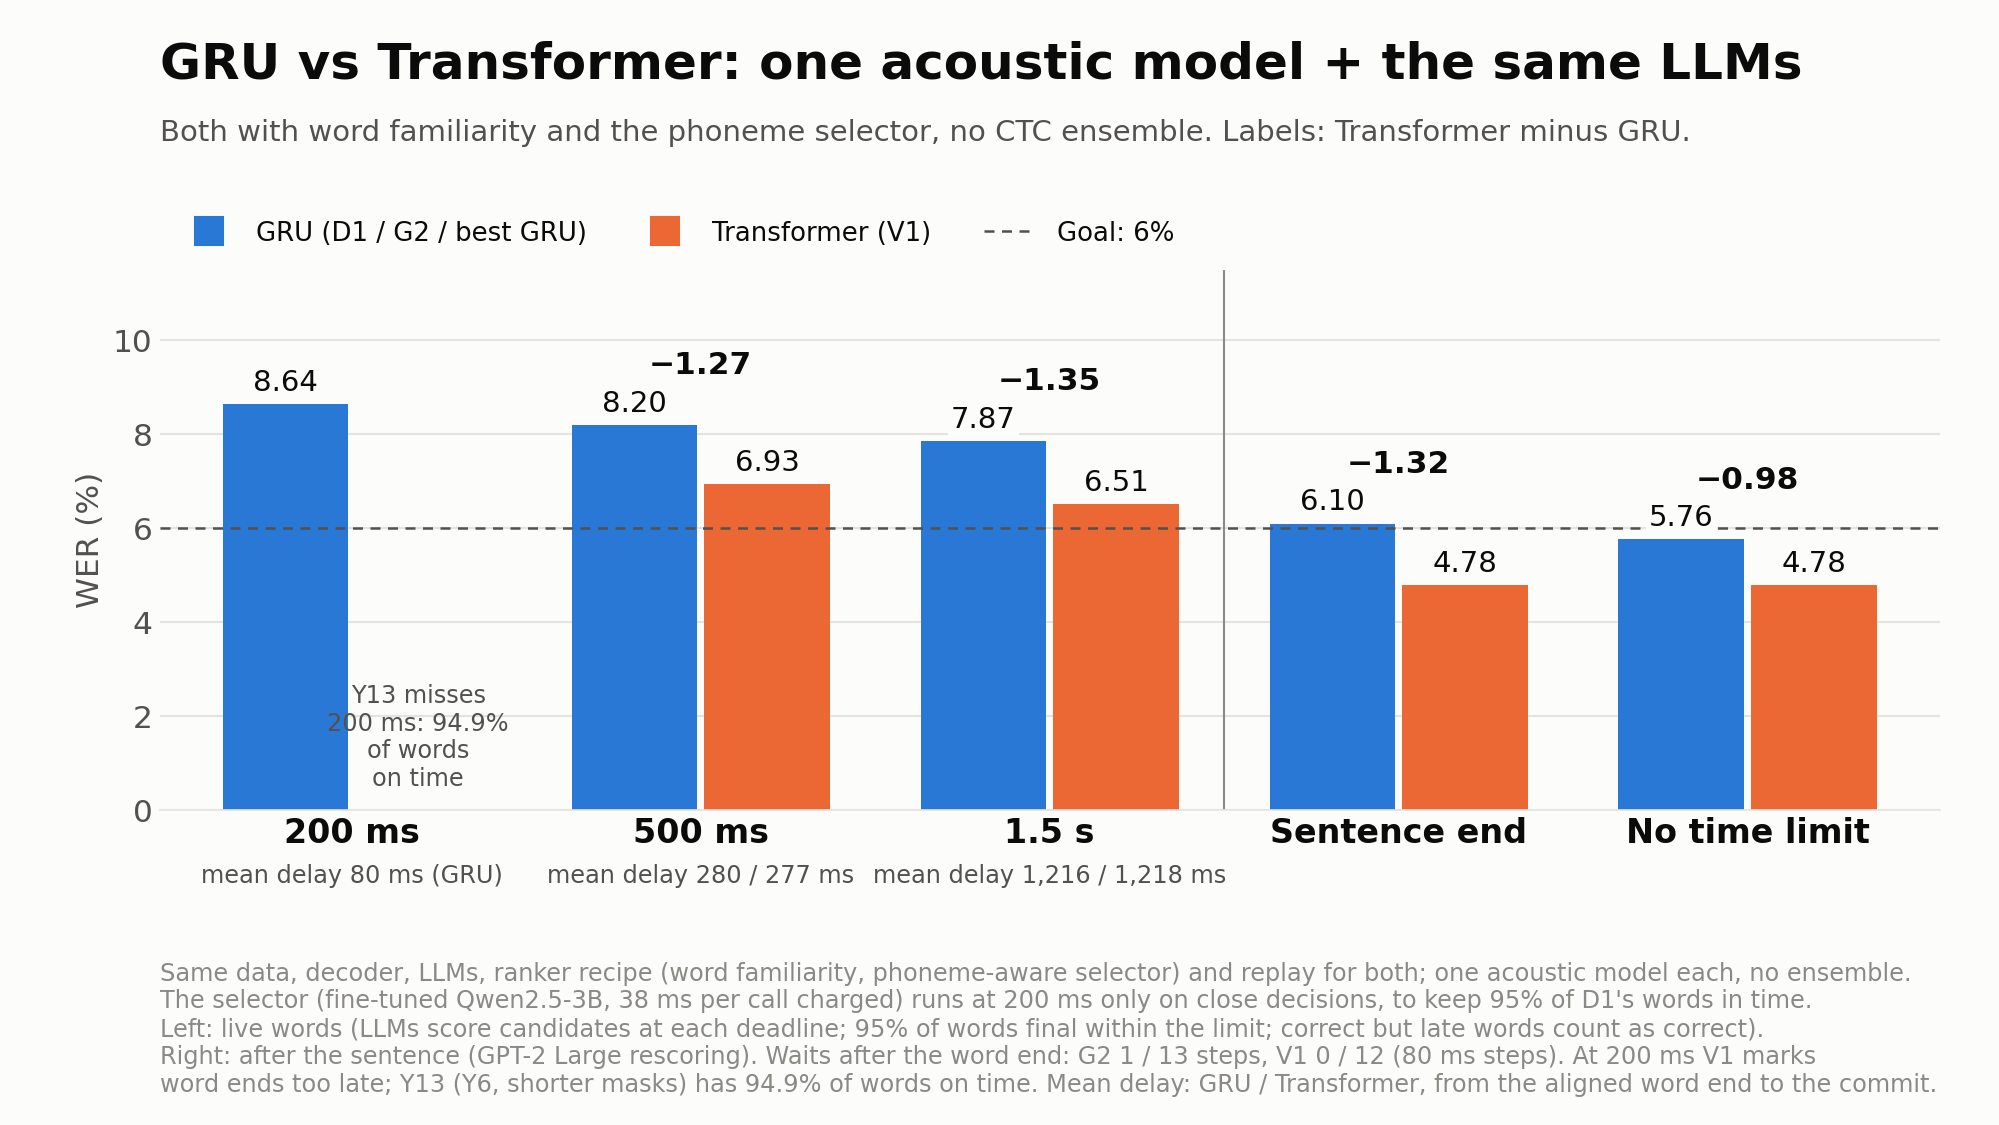
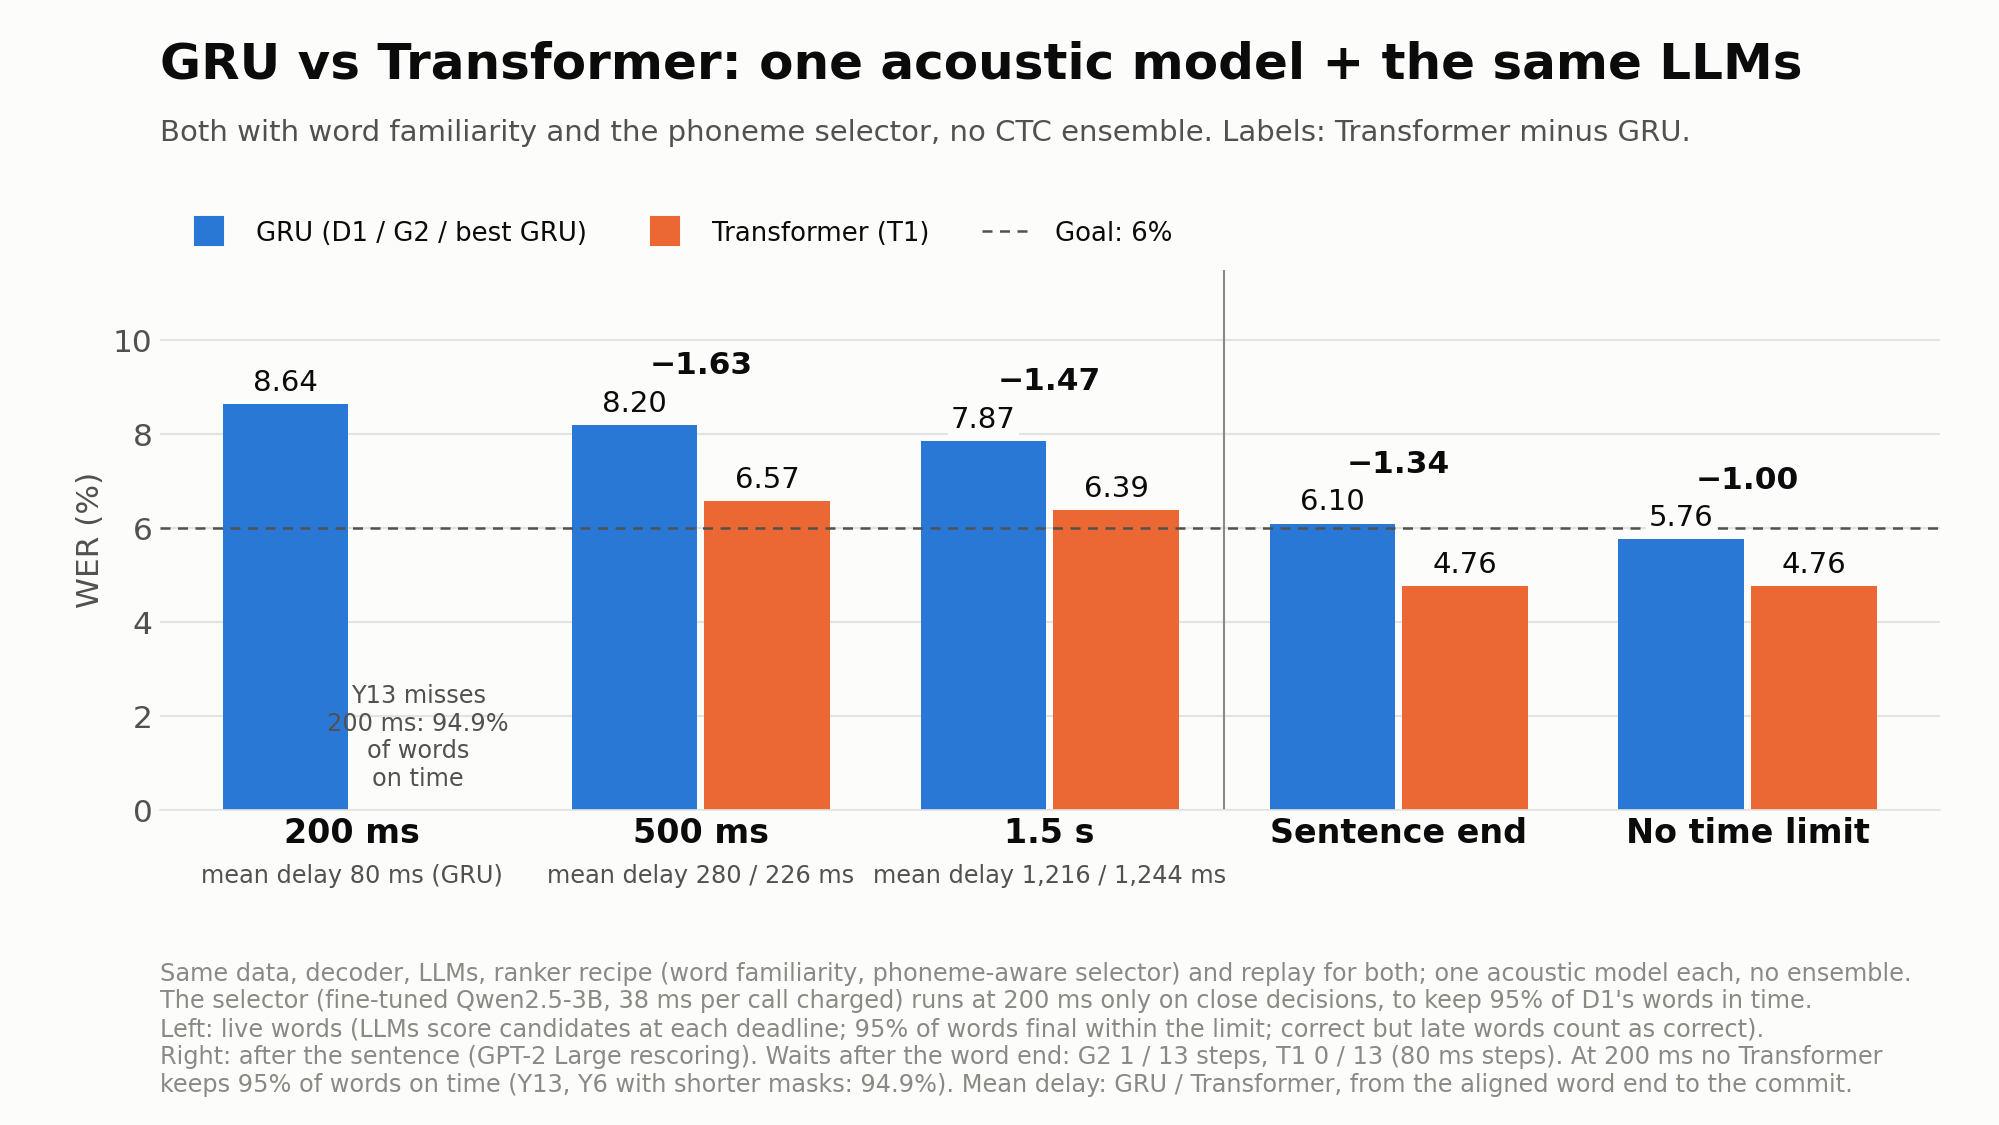
T1 is the 500 ms and 1.5 s decider: README, charts and plan at 5.80 / 5.42% (V1 5.97 / 5.80; four-split means 5.79 / 5.43), sentence end 3.71%; one run, rule set before the run; registry rows

diff --git a/README.md b/README.md
@@ -9,15 +9,15 @@ unchanged.
 shown within 200 ms, 500 ms or 1.5 s of the moment the participant finished attempting it. Whole-sentence
 (bidirectional) acoustic models are excluded, and rescoring after the sentence ends does not count.
 
-## Status (2026-11-22)
+## Status (2026-11-23)
 
 | Time limit after the word ends | One model | Full system | Mean delay | Deciding model |
 |---|---|---|---|---|
 | 200 ms | 8.64% | 8.06% | 78 ms | GRU D1 (causal) |
-| 500 ms | 6.93% | **5.97%** | 276 ms | Transformer V1 |
-| 1.5 s | 6.51% | **5.80%** | 1,226 ms | Transformer V1 |
+| 500 ms | 6.57% | **5.80%** | 229 ms | Transformer T1 |
+| 1.5 s | 6.39% | **5.42%** | 1,246 ms | Transformer T1 |
 | After the sentence, D1's 100 best (not the target) | 5.76% | 5.46% | - | GRU D1 (causal) |
-| After the sentence, V1's 100 best (not the target) | 4.55% | 3.88% | - | Transformer V1 |
+| After the sentence, T1's 100 best (not the target) | 4.13% | 3.71% | - | Transformer T1 |
 
 A live result passes its time limit when 95% of words are final within it; a correct word that arrives late still
 counts as correct, and the mean delay shows the typical wait. The deciding acoustic model and its 4-gram decoder
@@ -37,24 +37,26 @@ one being chosen (40 ms per word). At 200 ms and 500 ms the same recipe with 60k
 ones added (39 ms per word) is used; at 1.5 s that version is worse. The full system runs only with the best model
 that meets each limit, and each limit loads one selector.
 
-V1, the same Transformer recipe as Y6 at width 512 and 6 layers (20.0M parameters instead of 9.7M), took the full
-system under 6% at both 500 ms and 1.5 s: 6.39% -> 5.97% at 500 ms and 5.99% -> 5.80% at 1.5 s, with the same
-ensemble, language models and selectors (trained on Y6's decisions and used unchanged). Over four session splits it
-averages 5.91% and 5.78%: under 6% on all four splits at 1.5 s and on three of four at 500 ms (6.05% on the fourth).
-V1 marks words about one 80 ms frame later than Y6, so at 1.5 s it commits 12 steps (0.96 s) after the word end, the
-longest wait that keeps 95% of words in time (97.7% are). A second training run of V1 gives 5.81% and 5.61% through
-the same pipeline (one model 6.68% and 6.27%; after the sentence 4.20% and 3.73%). Going wider (640) or deeper (8
-layers) than V1 did not help.
+V1, the same Transformer recipe as Y6 at width 512 and 6 layers (20.0M parameters instead of 9.7M), first took the
+full system under 6% at both limits: 6.39% -> 5.97% at 500 ms and 5.99% -> 5.80% at 1.5 s. T1, the same recipe at 8
+layers (26.3M parameters), lowers it further with the same ensemble, language models and selectors (trained on Y6's
+decisions and used unchanged): 5.80% at 500 ms and 5.42% at 1.5 s, and 5.79% and 5.43% averaged over four session
+splits, under 6% on every split. It commits at its word end for 500 ms and 13 steps (1.04 s) after it for 1.5 s, the
+longest wait that keeps 95% of words in time (96.7% are). T1 is a single training run, and on its own (no language
+model step) it is only slightly better than V1 (sentence-end WER 6.46% vs 6.54%). V1's two runs differ by 0.16 and 0.19
+through the full system (the second gives 5.81% and 5.61%; one model 6.68% and 6.27%; after the sentence 4.20% and
+3.73%), so part of T1's lead may be run-to-run variation. Going wider instead (640 x 6) did not help the acoustic model
+and was not run live.
 
 After the sentence, a learned rescorer re-ranks the deciding model's 100 best sentences with the same kinds of
 inputs: GPT-2 Large, the model's own scores and word familiarity for "one model", plus the CTC scores of that model's
-full-system ensemble for "full system" (V1's 1.5 s ensemble; D1's 11 causal GRUs). GPT-2 Large alone with fixed weights
-gives 4.78% on V1's list and 6.48% on D1's. Always picking the closest sentence in V1's list would give 1.84%, so better
+full-system ensemble for "full system" (T1's 1.5 s ensemble; D1's 11 causal GRUs). GPT-2 Large alone with fixed weights
+gives 4.76% on T1's list and 6.48% on D1's. Always picking the closest sentence in T1's list would give 1.50%, so better
 choosing has room left.
 
 D1 is a causal 1,344-unit GRU. Y6 is a 9.7M-parameter Transformer trained with the LightBeam recipe (Feghhi et al.
-2026) with 80 ms of look-ahead, and V1 is the same recipe at 20.0M parameters. Each result comes from one training run
-of the recipe named; every run is listed in [`harness/registry/MODELS.md`](harness/registry/MODELS.md).
+2026) with 80 ms of look-ahead; V1 and T1 are the same recipe at 20.0M and 26.3M parameters. Each result comes from
+one training run of the recipe named; every run is listed in [`harness/registry/MODELS.md`](harness/registry/MODELS.md).
 
 No Transformer passes 200 ms yet. Y6 marks word ends late (95th percentile 360 ms after the word). Y13, the Y6 recipe
 trained with shorter time masks, marks them early: its full system reaches 7.67% at 200 ms, but only 94.9% of its
@@ -68,9 +70,9 @@ sessions, one participant). Read them as exploratory:
 - Models, ensembles and settings were chosen on this same partition, so the numbers are optimistic. There is no
   independent holdout, and the competition's test labels are not public.
 - Live results are offline replays of the models' outputs under the timing rules, not a running streaming system. Y6
-  streams in the harness's live player (its streamed outputs match the offline ones; V1 has not been run there), but
-  the timing here comes from the replays. The ranker is trained on half of the sessions and scored on the other half,
-  both ways.
+  streams in the harness's live player (its streamed outputs match the offline ones; V1 and T1 have not been run
+  there), but the timing here comes from the replays. The ranker is trained on half of the sessions and scored on the
+  other half, both ways.
 - Word-end times come from a forced alignment, not from measured speech.
 - Most comparisons are single training runs.
 
@@ -80,14 +82,14 @@ A second track on the Makin lab's ECoG dataset is intended; access and integrati
 
 <picture>
   <source media="(prefers-color-scheme: dark)" srcset="docs/images/dark/01_live_wer_waterfall_500ms.png">
-  <img src="docs/images/light/01_live_wer_waterfall_500ms.png" alt="Waterfall chart of live word error rate at 500 ms: GRU G2's own words 11.16%; Transformer Y6 instead of the GRU -1.42; two language models choosing the word -1.61; word familiarity -0.27 (one model: 7.87%); CTC scores of an acoustic-model ensemble -0.81; an LLM that reads the heard phonemes -0.67 (6.39%); V1, a larger Transformer, deciding instead of Y6 -0.42; result 5.97%.">
+  <img src="docs/images/light/01_live_wer_waterfall_500ms.png" alt="Waterfall chart of live word error rate at 500 ms: GRU G2's own words 11.16%; Transformer Y6 instead of the GRU -1.42; two language models choosing the word -1.61; word familiarity -0.27 (one model: 7.87%); CTC scores of an acoustic-model ensemble -0.81; an LLM that reads the heard phonemes -0.67 (6.39%); T1, a larger Transformer, deciding instead of Y6 -0.59; result 5.80%.">
 </picture>
 
 ### GRU or Transformer, one acoustic model each
 
 <picture>
   <source media="(prefers-color-scheme: dark)" srcset="docs/images/dark/03_gru_vs_transformer.png">
-  <img src="docs/images/light/03_gru_vs_transformer.png" alt="Bar chart of one GRU against one Transformer (V1), each with the same language models, word familiarity and phoneme-aware selector: 500 ms 8.20% vs 6.93%, 1.5 s 7.87% vs 6.51%, sentence end 6.10% vs 4.78%, no time limit 5.76% vs 4.78%; at 200 ms only the GRU, 8.64% (selector on close decisions only).">
+  <img src="docs/images/light/03_gru_vs_transformer.png" alt="Bar chart of one GRU against one Transformer (T1), each with the same language models, word familiarity and phoneme-aware selector: 500 ms 8.20% vs 6.57%, 1.5 s 7.87% vs 6.39%, sentence end 6.10% vs 4.76%, no time limit 5.76% vs 4.76%; at 200 ms only the GRU, 8.64% (selector on close decisions only).">
 </picture>
 
 ## What this repository adds

diff --git a/docs/PLAN.md b/docs/PLAN.md
@@ -1,14 +1,15 @@
-# Streaming neural decoding plan — updated 2026-11-22
+# Streaming neural decoding plan — updated 2026-11-23
 
-**Where things stand (2026-11-22):** live-word WER is 8.06 / **5.97** / **5.80%** at 200 ms / 500 ms / 1.5 s on val-dev
-(mean delay 78 / 276 / 1,226 ms; mean of four session splits 8.01 / 5.91 / 5.78): under the 6% target at 500 ms and 1.5 s,
+**Where things stand (2026-11-23):** live-word WER is 8.06 / **5.80** / **5.42%** at 200 ms / 500 ms / 1.5 s on val-dev
+(mean delay 78 / 229 / 1,246 ms; mean of four session splits 8.01 / 5.79 / 5.43): under the 6% target at 500 ms and 1.5 s,
 not yet at 200 ms (`current_knowledge.md` section 0, which also holds every result and the ledger of what was tried).
-The 500 ms and 1.5 s decider is V1_1 avg, Y6's recipe at width 512 and 6 layers (20.0M parameters); its second run V1_2
-avg gives 5.81 / 5.61 through the same pipeline (V1 recipe 5.89 / 5.70). The full system adds the CTC ensemble, GPT-2
+The 500 ms and 1.5 s decider is T1_1 avg, Y6's recipe at width 512 and 8 layers (26.3M parameters; one run), which
+replaced V1_1 avg (512 x 6: 5.97 / 5.80; its second run V1_2 avg 5.81 / 5.61) by the rule set before its live run.
+The full system adds the CTC ensemble, GPT-2
 Large ft + OPT-2.7B, word familiarity and the fine-tuned Qwen2.5-3B phoneme-aware selector (one per limit, its time
 charged). At 200 ms the causal GRU D1_1 decides; V2_1 (V1 + Y13's short masks) reaches 6.66 there, but only 91.0% of its
 words are final within 200 ms, because list extraction and the two LLMs take too long. After the sentence, the learned
-rescorer over V1_1 avg's 100-best reaches 3.88% (one model 4.55; GPT-2 Large alone 4.78; Y6_1 avg 4.28), and over
+rescorer over T1_1 avg's 100-best reaches 3.71% (one model 4.13; GPT-2 Large alone 4.76; V1_1 avg 3.88), and over
 D1_1's 5.46% (one model 5.76).
 
 **Reporting (2026-11-19, `current_knowledge.md` 1.4):** a budget is met when 95% of words are final within it; correct
@@ -253,11 +254,15 @@ updated to V1 (2026-11-22).
 **Four reporting cells (18:31 EST, `four_cells_20261122.py`):** every headline decider now has one model and full system,
 live and at sentence end. Learned sentence-end rescorer, one model / full system: D1_1 5.76 / 5.46, V1_1 avg 4.55 /
 **3.88**, V1_2 avg 4.20 / 3.73; V1_2 avg live one model 6.68 / 6.27 (`current_knowledge.md` 6.11).
-**Queued (2026-11-23, 10:25 PM EST Sunday; user):** T1_1 avg (512 x 8) through V1's full live pipeline at its best decode
-scale, 0.25 (`t1_live_20261123.py`, about 70 min), then its one-model and sentence-end cells. Expected: about V1_1 avg's
-result (acoustic WER 6.46 vs 6.54, inside V1's run-to-run spread of 0.39). Rule set before the run: T1_1 avg replaces
-V1_1 avg at a limit if its full-system mean over four splits is below V1_1 avg's (5.91 at 500 ms, 5.78 at 1.5 s) with
-95% of words within the limit.
+**T1_1 avg live (2026-11-23, 11:54 PM EST Sunday; `t1_live_20261123.py`, folder `20261123T032447Z_t1_live`):** through
+V1's full live pipeline at its best decode scale, 0.25. Expected beforehand: about V1_1 avg's result (acoustic WER 6.46
+vs 6.54). Result: full system 500 ms D 0 **5.80** (mean of four splits 5.79; V1_1 avg 5.97 / 5.91), 97.8% within, mean
+delay 229 ms; 1.5 s D 13 (the longest wait inside the 95% rule; D 14 90.3%) **5.42** (mean 5.43; V1_1 avg 5.80 / 5.78),
+96.7% within, 1,246 ms. Rule met at both limits: **T1_1 avg is the 500 ms and 1.5 s decider.** One model (separate 3B)
+6.57 / 6.39; sentence end: GPT-2 L 4.76, learned 4.13 / **3.71**. One run of T1; V1's two runs differ by 0.16 / 0.19 in
+the full system, so part of the gain may be seed variation.
+**Next (proposed, not queued):** a second run of T1 (T1_2, seed 11; about 3.2 h of training, then this live pipeline,
+about 1.5 h) so the decider is a recipe result, as V1's was. Expected: between V1's recipe (5.89 / 5.70) and T1_1.
 **Next at 200 ms (proposed, not queued):** V2's lists miss the rule on compute, not accuracy. (a) GPT-2 L ft in fp16 on
 V2's lists (fp32 now; OPT in fp16 left WER unchanged) and re-time; (b) a tighter selector gate or none; (c) a second run
 of V2 (V1's two runs differed by 0.39 in WER and V1_2 marked words earlier, 208 vs 276 ms mean delay at 500 ms). (a)

diff --git a/harness/registry/MODELS.md b/harness/registry/MODELS.md
@@ -326,7 +326,7 @@ One row per training run, grouped by recipe. "Weights" lists what is registered 
 
 | Run | Full name | Weights | Old name | Started | Notes |
 |---|---|---|---|---|---|
-| T1_1 | `tfm512x8_lb_p20000_f80_sm80_noday_v2_63k_s10` | final, avg, bestval | - | 2026-11-21 | Y6's recipe at width 512, 8 layers, 8 heads (26.3M parameters; V1 20.0M), the depth step beyond V1. Best WER 6.67 / 6.46 at scale 0.3 / 0.25; greedy PER 6.99 / 6.85; never-seen-word phoneme error (avg) 32.5. Second run only if run 1 (avg) <= 6.20 (V1's mean - 0.15): not met. |
+| T1_1 | `tfm512x8_lb_p20000_f80_sm80_noday_v2_63k_s10` | final, avg, bestval | - | 2026-11-21 | Y6's recipe at width 512, 8 layers, 8 heads (26.3M parameters; V1 20.0M), the depth step beyond V1. Best WER 6.67 / 6.46 at scale 0.3 / 0.25; greedy PER 6.99 / 6.85; never-seen-word phoneme error (avg) 32.5. Second run only if run 1 (avg) <= 6.20 (V1's mean - 0.15): not met. The 500 ms and 1.5 s live decider since 2026-11-23 (decode scale 0.25, by the rule set before its live run: full-system mean of four splits below V1_1 avg's): full system 5.80 (D 0) / 5.42 (D 13) vs V1_1 avg 5.97 / 5.80, means 5.79 / 5.43; one model 6.57 / 6.39; at sentence end GPT-2 L rescoring 4.76, learned rescorer 4.13 one model / 3.71 with its 1.5 s ensemble. |
 
 ### U: Transformer, width 640, 6 layers, LightBeam style
 
@@ -338,7 +338,7 @@ One row per training run, grouped by recipe. "Weights" lists what is registered 
 
 | Run | Full name | Weights | Old name | Started | Notes |
 |---|---|---|---|---|---|
-| V1_1 | `tfm512x6_lb_p20000_f80_sm80_noday_v2_63k_s10` | final, avg, bestval | - | 2026-11-20 | Y6's recipe at width 512, 6 layers, 8 heads (20.0M parameters; Y6 9.7M). Best WER 6.77 / 6.54 at scale 0.3 (Y6_1 7.27 / 6.97; Y6_2 6.95 / 6.95); greedy PER 6.98 / 6.85 (Y6_1 8.07 / 7.95); never-seen-word phoneme error 33.2 / 33.1 (Y6_1 / Y6_2 avg 35.3 / 36.2). The 500 ms and 1.5 s live decider since 2026-11-22: full system 5.97 (D 0) / 5.80 (D 12) vs Y6_1 avg 6.39 / 5.99; one model 6.93 / 6.51; at sentence end GPT-2 L rescoring 4.78 (Y6_1 avg 5.47), learned rescorer 4.55 one model / 3.88 with its 1.5 s ensemble (Y6_1 avg 5.06 / 4.28; 2026-11-22). |
+| V1_1 | `tfm512x6_lb_p20000_f80_sm80_noday_v2_63k_s10` | final, avg, bestval | - | 2026-11-20 | Y6's recipe at width 512, 6 layers, 8 heads (20.0M parameters; Y6 9.7M). Best WER 6.77 / 6.54 at scale 0.3 (Y6_1 7.27 / 6.97; Y6_2 6.95 / 6.95); greedy PER 6.98 / 6.85 (Y6_1 8.07 / 7.95); never-seen-word phoneme error 33.2 / 33.1 (Y6_1 / Y6_2 avg 35.3 / 36.2). The 500 ms and 1.5 s live decider from 2026-11-22 to 11-23 (then T1_1 avg): full system 5.97 (D 0) / 5.80 (D 12) vs Y6_1 avg 6.39 / 5.99; one model 6.93 / 6.51; at sentence end GPT-2 L rescoring 4.78 (Y6_1 avg 5.47), learned rescorer 4.55 one model / 3.88 with its 1.5 s ensemble (Y6_1 avg 5.06 / 4.28; 2026-11-22). |
 | V1_2 | `tfm512x6_lb_p20000_f80_sm80_noday_v2_63k_s11` | final, avg, bestval | - | 2026-11-21 | Second run of V1 (seed 11, data seed 2). Best WER 6.05 / 6.15 at scale 0.3 (V1_1 6.77 / 6.54); greedy PER 6.79 / 6.67; never-seen-word phoneme error 32.7 / 32.8. Recipe mean (avg) 6.35 vs Y6 6.96: passes the rule set before training (<= 6.66). Through the same live pipeline (reported, not charted): 5.81 at 500 ms (D 0), 5.61 at 1.5 s (D 13); one model 6.68 / 6.27; GPT-2 L rescoring 4.85, learned rescorer 4.20 one model / 3.73 with the ensemble (2026-11-22). |
 | V2_1 | `tfm512x6_lb_p20000_f80_sm80_noday_v2_mask5f_63k_s10` | final, avg, bestval | - | 2026-11-21 | V1's recipe with Y13's time masks (20 of at most 5 frames), for a 200 ms Transformer decider. Best WER 7.08 / 6.86 at scale 0.25 / 0.2 (Y13_1 8.03 / 8.01); greedy PER 7.40 / 7.29; never-seen-word phoneme error (avg) 33.5. Before the LLM step 95% of words within 200 ms at 9.98 (D1_1 11.57). 200 ms full system (2026-11-22, D 0, gated 3B selector): 6.66 (mean of four splits 6.66; D1_1 8.06), but only 91.0% of words within 200 ms (p95 233 ms; 92.6% without the selector): the LLM step's compute pushes it over, so the rule is not met and D1_1 stays. |
 
